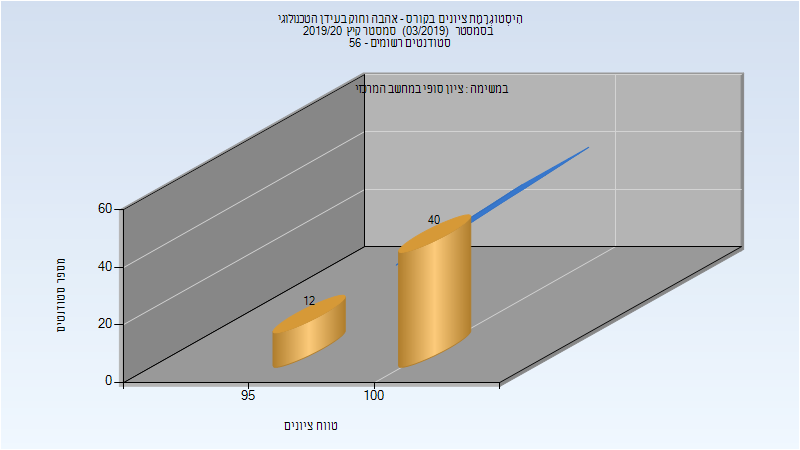
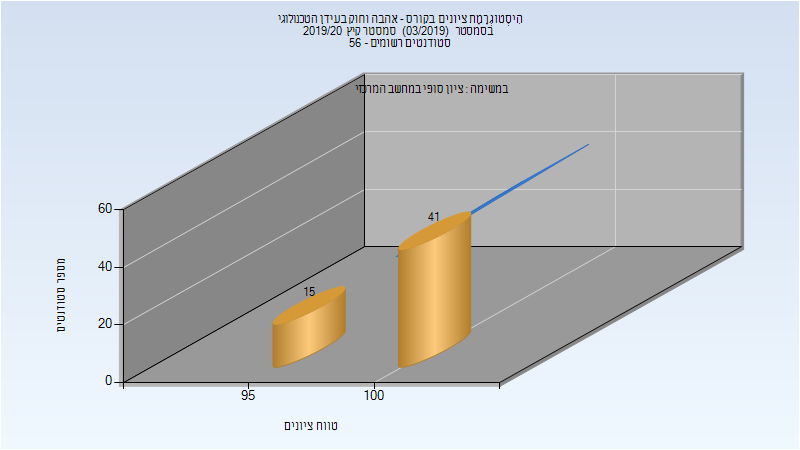
Deploy michael-maltsev/technion-histograms to github.com/michael-maltsev/technion-histograms.git:gh-pages

diff --git a/134058/index.html b/134058/index.html
@@ -2098,5 +2098,46 @@
 </tr>
 </tbody>
 </table>
+<h2>קיץ 2020</h2>
+<table>
+<thead>
+<tr>
+<th>איש סגל</th>
+<th>תפקיד</th>
+</tr>
+</thead>
+<tbody>
+<tr>
+<td>רבנר אלונה</td>
+<td>מרצה - אחראי מקצוע</td>
+</tr>
+</tbody>
+</table>
+<h3>מבחן מועד א'</h3>
+<p><img src="201903/Exam_A.png" alt="201903 Exam_A" /></p>
+<table>
+<thead>
+<tr>
+<th>סטודנטים</th>
+<th>עברו/נכשלו</th>
+<th>אחוז עוברים</th>
+<th>ציון מינימלי</th>
+<th>ציון מקסימלי</th>
+<th>ממוצע</th>
+<th>חציון</th>
+</tr>
+</thead>
+<tbody>
+<tr>
+<td>96</td>
+<td>89/7</td>
+<td>93</td>
+<td>30</td>
+<td>100</td>
+<td>79.729</td>
+<td>83</td>
+</tr>
+</tbody>
+</table>
   </body>
 </html>

diff --git a/324453/index.html b/324453/index.html
@@ -327,12 +327,12 @@
 </thead>
 <tbody>
 <tr>
-<td>52</td>
-<td>52/0</td>
+<td>56</td>
+<td>56/0</td>
 <td>100</td>
 <td>96</td>
 <td>100</td>
-<td>99.423</td>
+<td>99.411</td>
 <td>100</td>
 </tr>
 </tbody>

diff --git a/134058/README.md b/134058/README.md
@@ -664,3 +664,17 @@
 | ---- | ---- | ---- | ---- | ---- | ---- | ---- |
 | 151 | 144/7 | 95 | 19 | 100 | 89.781 | 95 |
 
+## קיץ 2020
+
+| איש סגל | תפקיד |
+| ---- | ---- |
+| רבנר אלונה | מרצה - אחראי מקצוע |
+
+### מבחן מועד א'
+
+![201903 Exam_A](201903/Exam_A.png)
+
+| סטודנטים | עברו/נכשלו | אחוז עוברים | ציון מינימלי | ציון מקסימלי | ממוצע | חציון |
+| ---- | ---- | ---- | ---- | ---- | ---- | ---- |
+| 96 | 89/7 | 93 | 30 | 100 | 79.729 | 83 |
+

diff --git a/324453/README.md b/324453/README.md
@@ -98,5 +98,5 @@
 
 | סטודנטים | עברו/נכשלו | אחוז עוברים | ציון מינימלי | ציון מקסימלי | ממוצע | חציון |
 | ---- | ---- | ---- | ---- | ---- | ---- | ---- |
-| 52 | 52/0 | 100 | 96 | 100 | 99.423 | 100 |
+| 56 | 56/0 | 100 | 96 | 100 | 99.411 | 100 |
 
